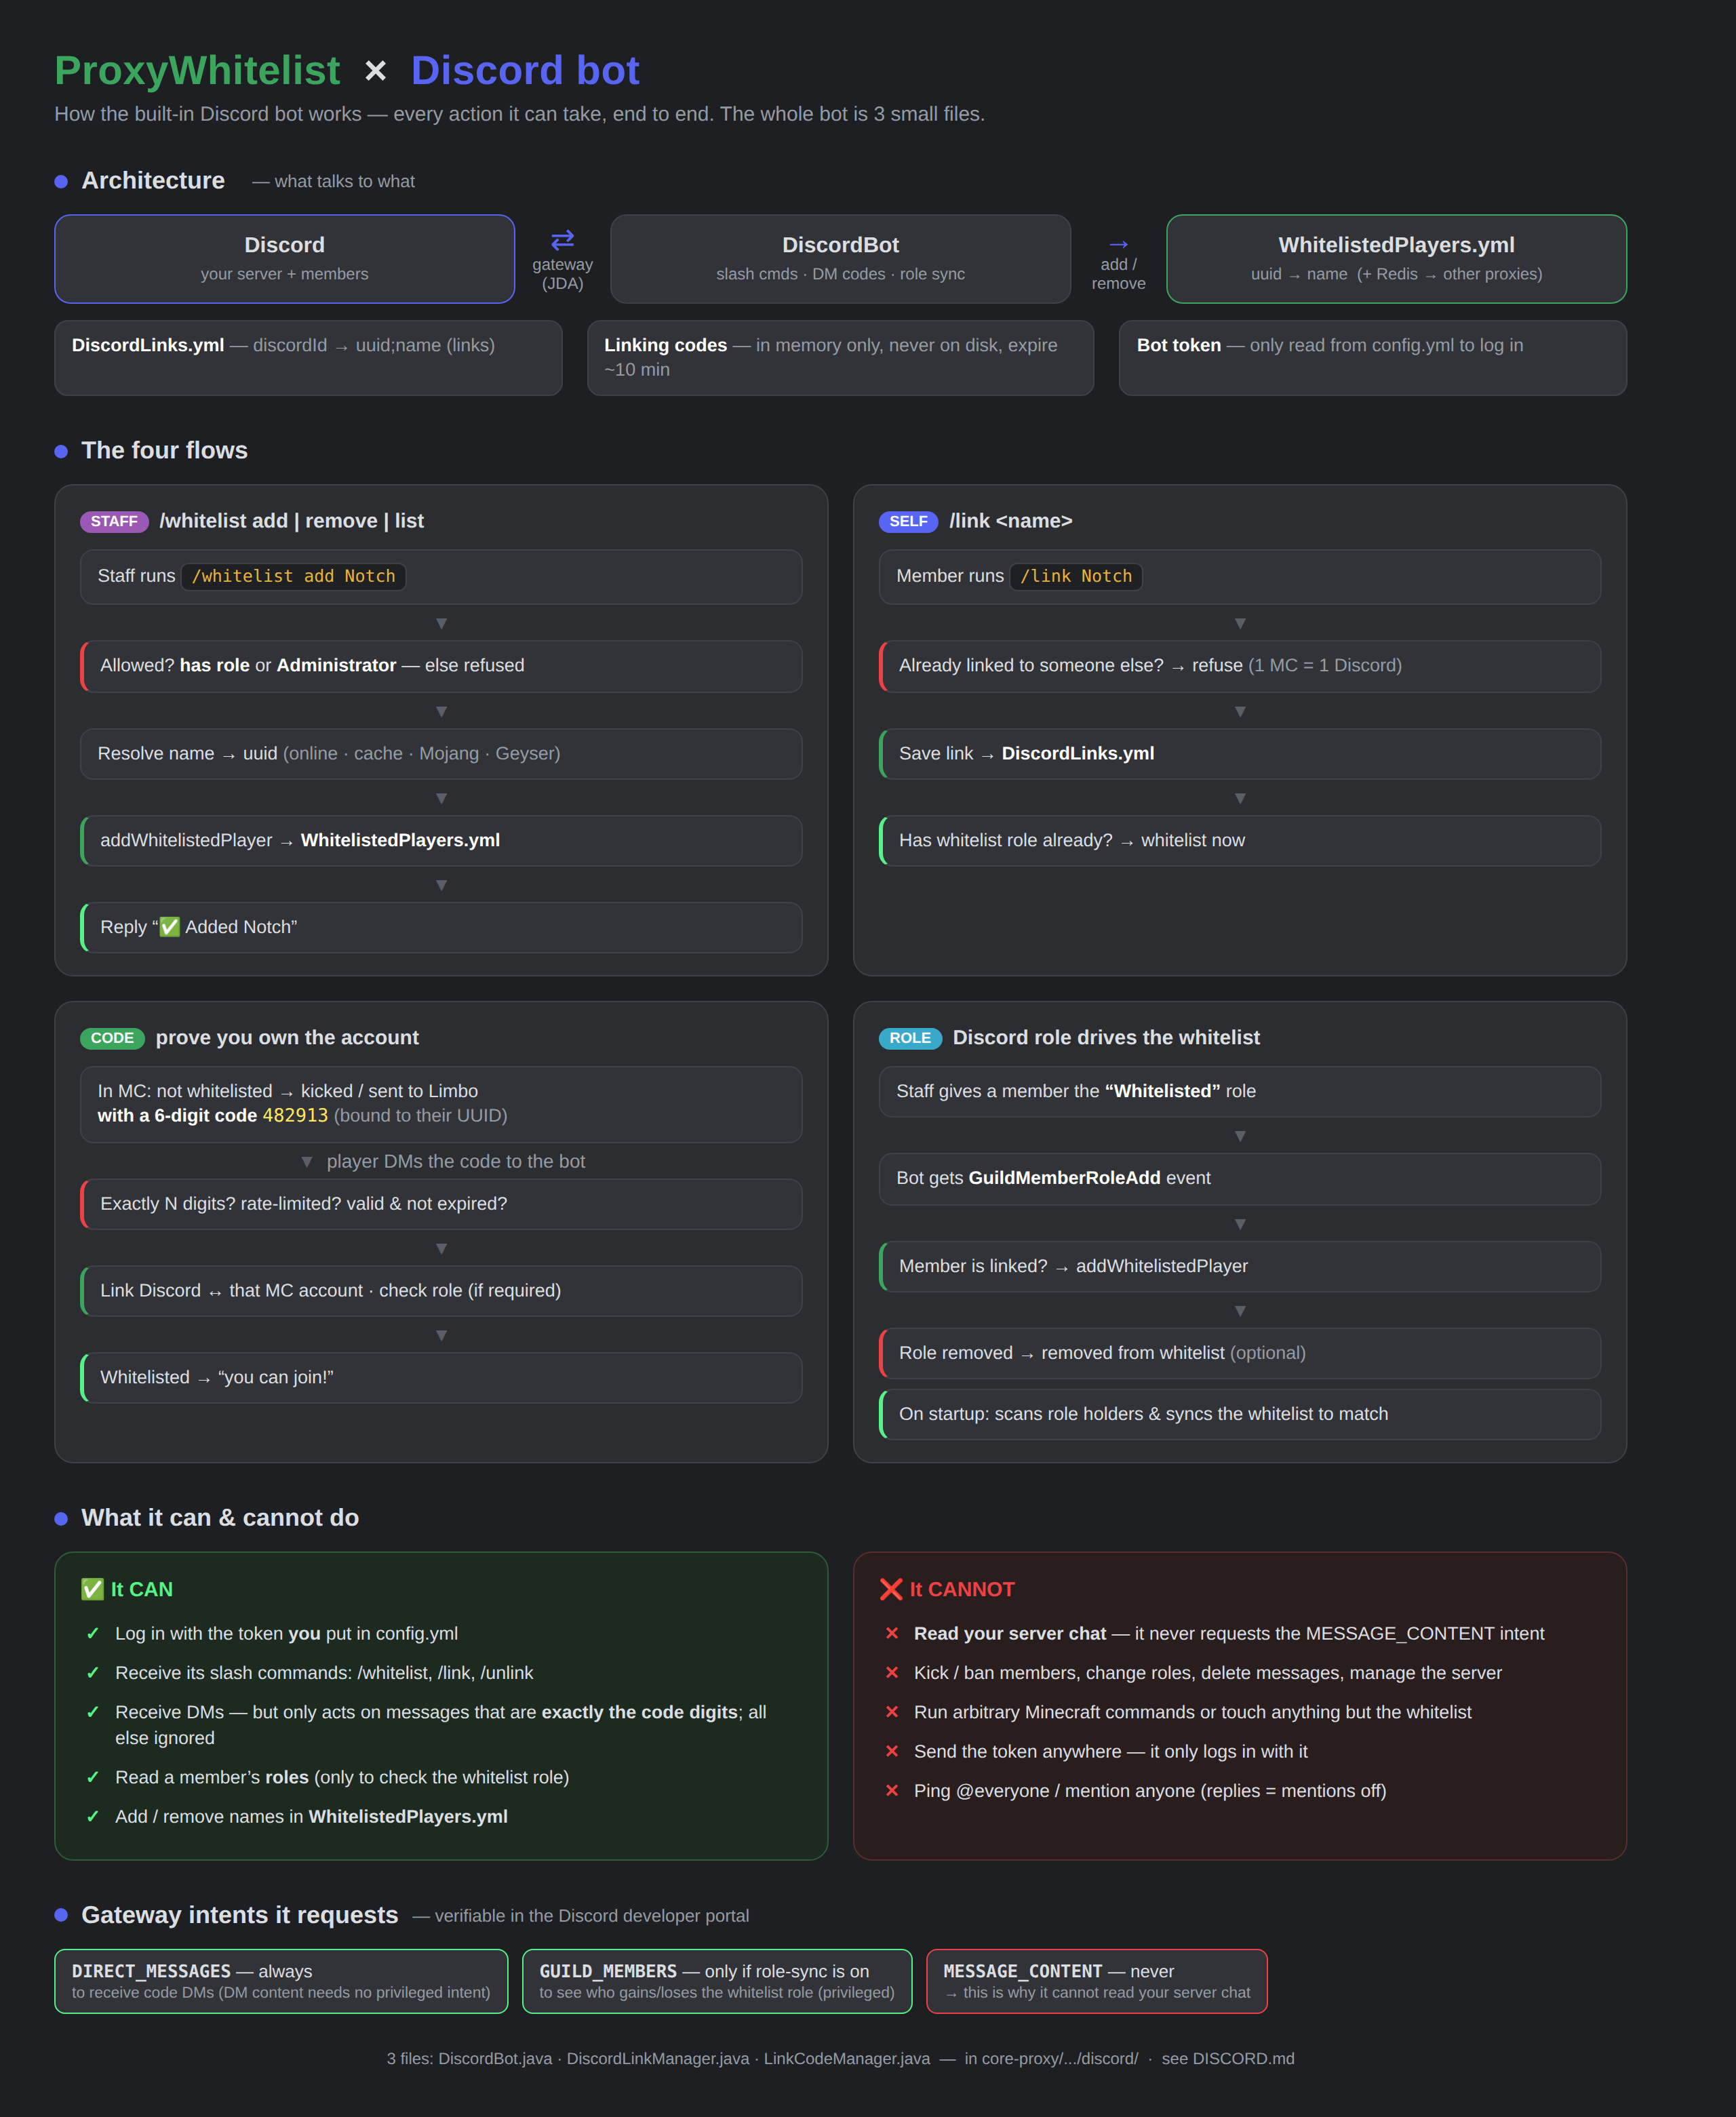
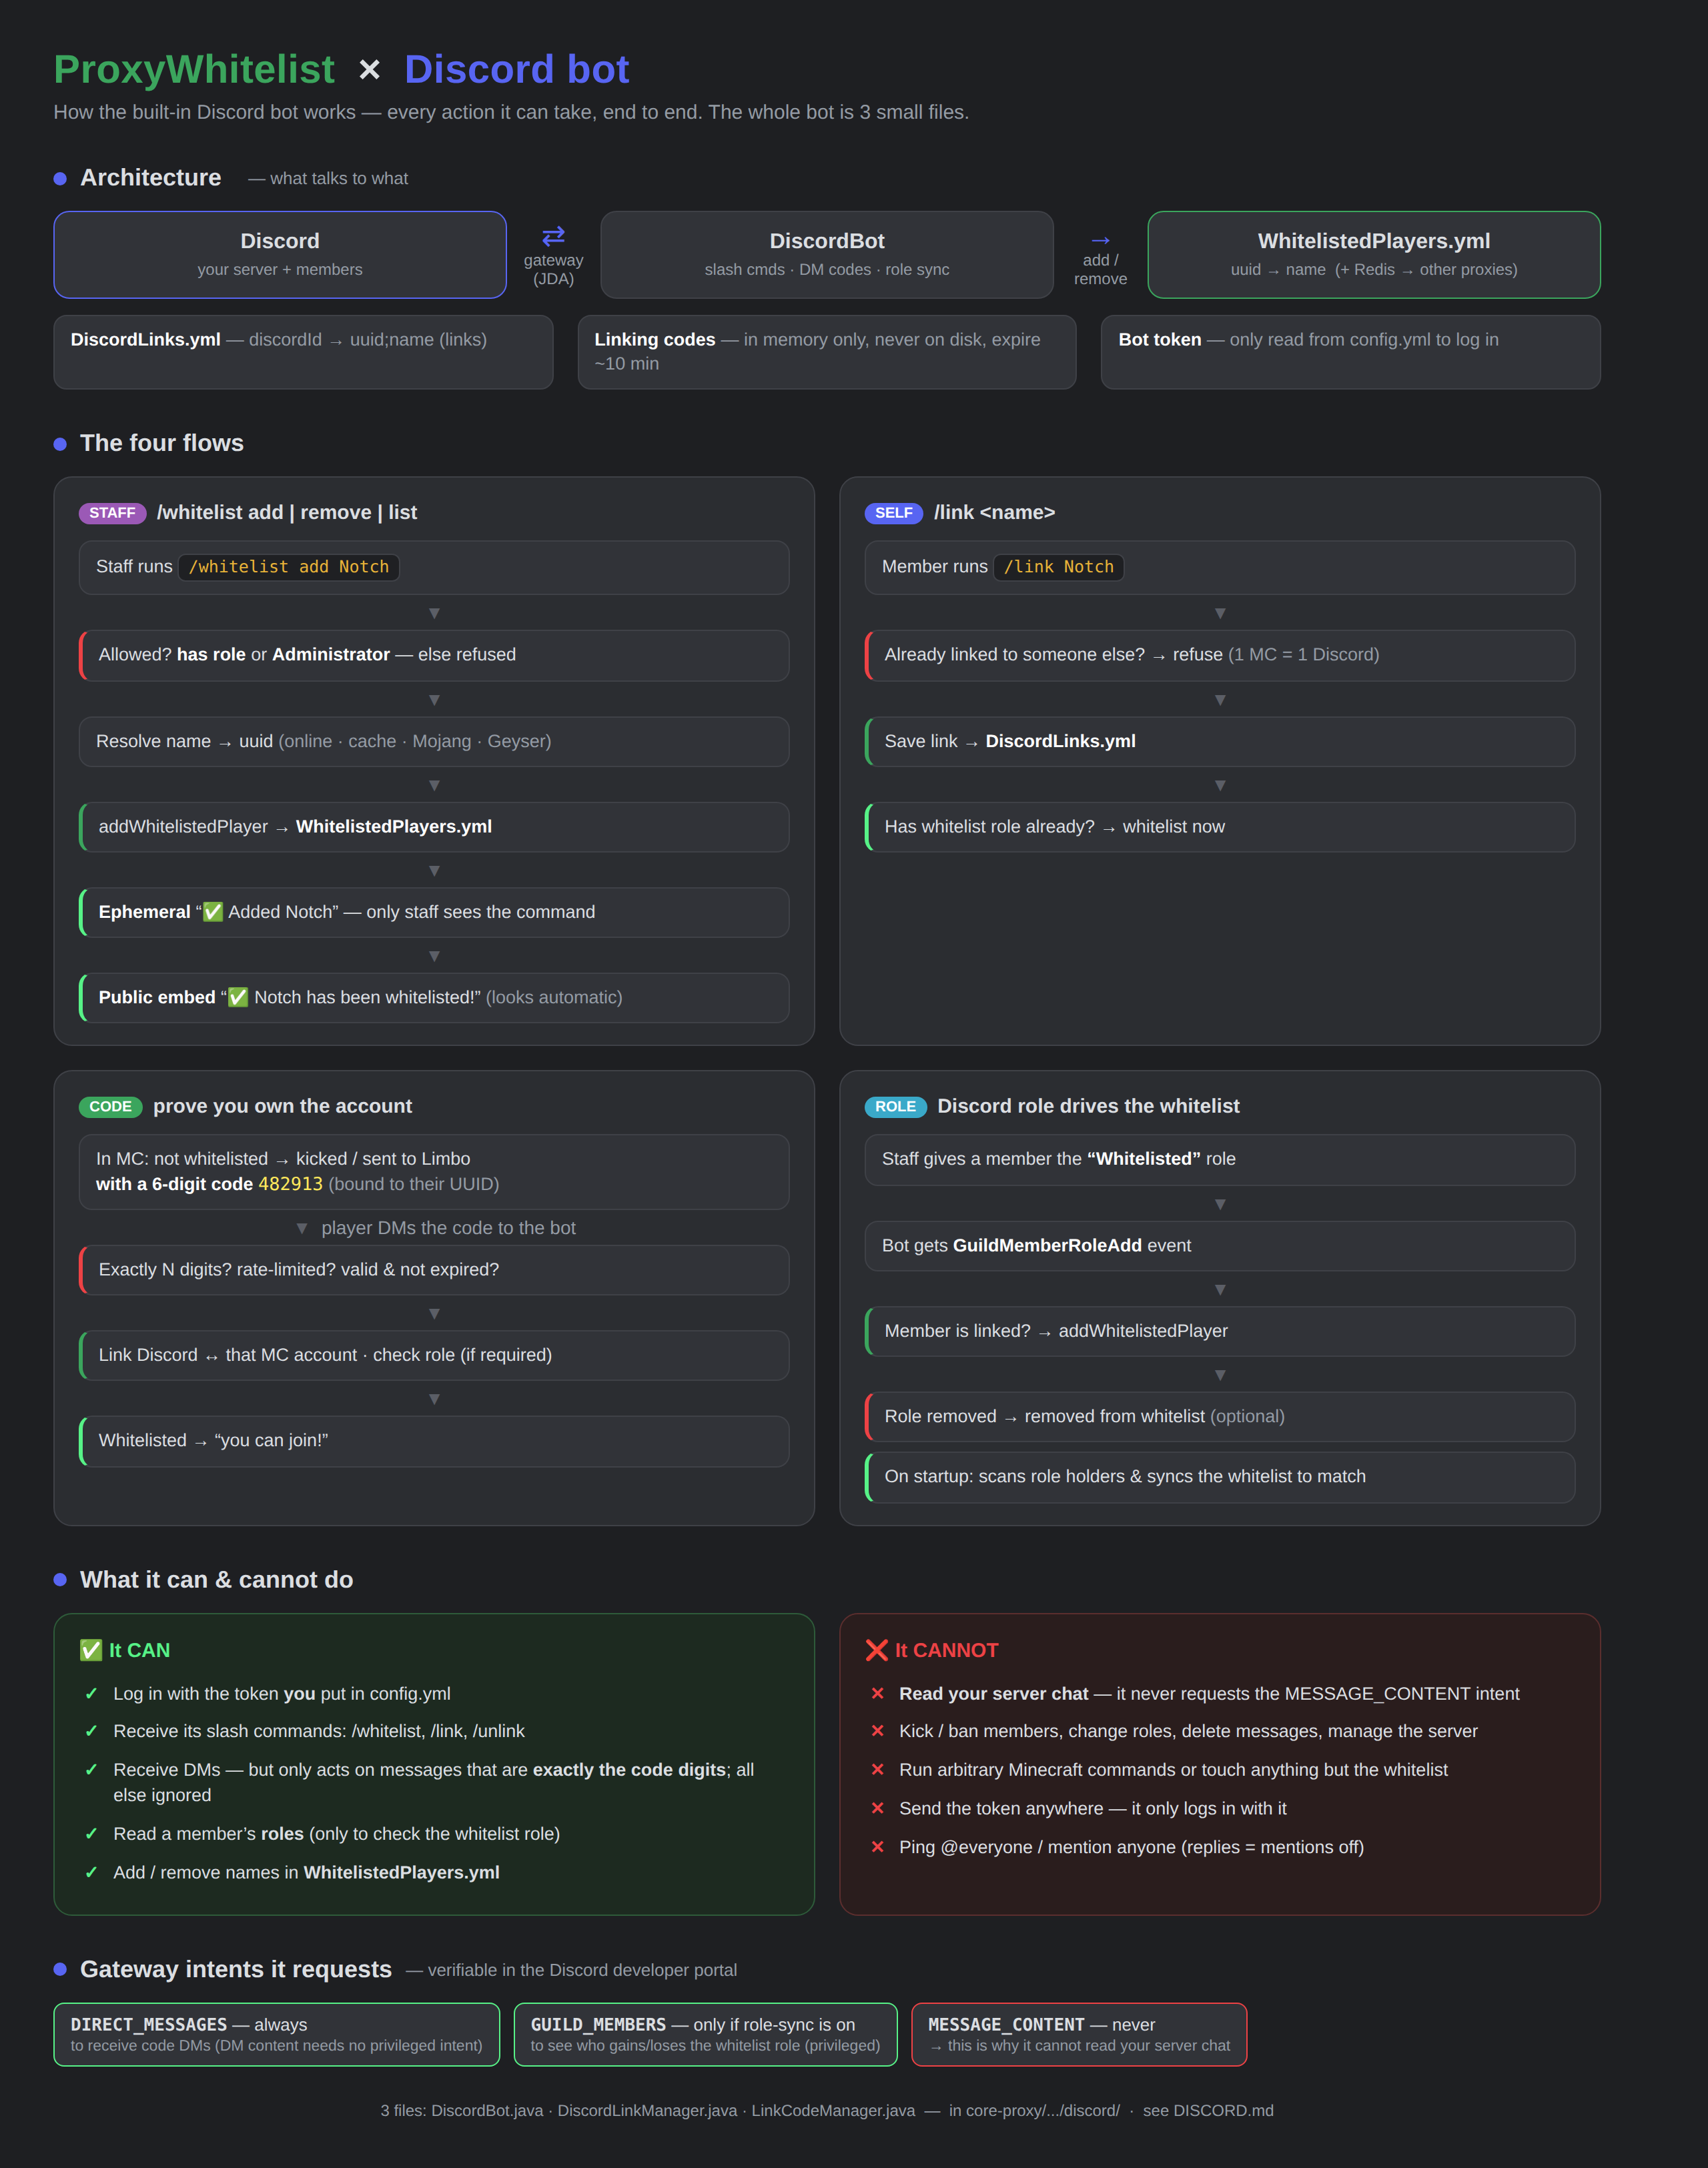
Make /whitelist add ephemeral + post a public "whitelisted" embed
So whitelisting looks automatic: the staff member's slash command and typed
input stay private (ephemeral), and the bot posts a clean public embed
("X has been whitelisted!", with the player's head) as a separate message - no
visible command for others.

- /whitelist add: ephemeral defer + ephemeral confirmation to staff, plus a
  public green embed announcement on success.
- /whitelist remove and list: replies are now ephemeral too (private to staff).
- Updated DISCORD.md and the flow diagram (HTML + re-rendered PNG).

diff --git a/docs/discord-flow.html b/docs/discord-flow.html
@@ -90,7 +90,9 @@
       <div class="down">▼</div>
       <div class="step act">addWhitelistedPlayer → <b>WhitelistedPlayers.yml</b></div>
       <div class="down">▼</div>
-      <div class="step ok">Reply “✅ Added Notch”</div>
+      <div class="step ok"><b>Ephemeral</b> “✅ Added Notch” — only staff sees the command</div>
+      <div class="down">▼</div>
+      <div class="step ok"><b>Public embed</b> “✅ Notch has been whitelisted!” <span class="muted">(looks automatic)</span></div>
     </div>
 
     <div class="card">

diff --git a/core-proxy/src/main/java/eu/kennytv/maintenance/core/proxy/discord/DiscordBot.java b/core-proxy/src/main/java/eu/kennytv/maintenance/core/proxy/discord/DiscordBot.java
@@ -21,6 +21,8 @@ import eu.kennytv.maintenance.core.proxy.MaintenanceProxyPlugin;
 import eu.kennytv.maintenance.core.proxy.SettingsProxy;
 import eu.kennytv.maintenance.core.proxy.util.ProfileLookup;
 import eu.kennytv.maintenance.core.util.SenderInfo;
+import java.net.URLEncoder;
+import java.nio.charset.StandardCharsets;
 import java.util.Collections;
 import java.util.EnumSet;
 import java.util.List;
@@ -28,12 +30,14 @@ import java.util.Map;
 import java.util.UUID;
 import java.util.concurrent.CompletableFuture;
 import java.util.logging.Level;
+import net.dv8tion.jda.api.EmbedBuilder;
 import net.dv8tion.jda.api.JDA;
 import net.dv8tion.jda.api.JDABuilder;
 import net.dv8tion.jda.api.Permission;
 import net.dv8tion.jda.api.entities.Activity;
 import net.dv8tion.jda.api.entities.Guild;
 import net.dv8tion.jda.api.entities.Member;
+import net.dv8tion.jda.api.entities.MessageEmbed;
 import net.dv8tion.jda.api.entities.Role;
 import net.dv8tion.jda.api.entities.channel.ChannelType;
 import net.dv8tion.jda.api.events.guild.member.GuildMemberRoleAddEvent;
@@ -224,7 +228,8 @@ public final class DiscordBot extends ListenerAdapter {
         }
 
         final String input = option.getAsString();
-        event.deferReply().queue();
+        // Ephemeral: the staff member's command and typed input stay private to them.
+        event.deferReply(true).queue();
         lookup(input).whenComplete((selected, ex) -> {
             if (ex != null || selected == null) {
                 event.getHook().sendMessage("❌ Could not find a player named `" + input + "`.").queue();
@@ -232,9 +237,14 @@ public final class DiscordBot extends ListenerAdapter {
             }
 
             final boolean added = settings.addWhitelistedPlayer(selected.uuid(), selected.name());
-            event.getHook().sendMessage(added
-                    ? "✅ Added `" + selected.name() + "` to the whitelist."
-                    : "ℹ️ `" + selected.name() + "` is already whitelisted.").queue();
+            if (added) {
+                // Quiet confirmation only the staff member sees...
+                event.getHook().sendMessage("✅ Added `" + selected.name() + "` to the whitelist.").queue();
+                // ...and a clean public embed so it looks automatic - no visible command, just the result.
+                event.getChannel().sendMessageEmbeds(whitelistedEmbed(selected.name())).queue();
+            } else {
+                event.getHook().sendMessage("ℹ️ `" + selected.name() + "` is already whitelisted.").queue();
+            }
         });
     }
 
@@ -252,7 +262,7 @@ public final class DiscordBot extends ListenerAdapter {
                 : settings.removeWhitelistedPlayer(input);
 
         if (removed) {
-            event.reply("✅ Removed `" + input + "` from the whitelist.").queue();
+            event.reply("✅ Removed `" + input + "` from the whitelist.").setEphemeral(true).queue();
         } else {
             event.reply("❌ `" + input + "` is not on the whitelist.").setEphemeral(true).queue();
         }
@@ -476,6 +486,18 @@ public final class DiscordBot extends ListenerAdapter {
     private String sanitizeName(final String name) {
         // Strip anything that could break out of Discord markdown or inject mentions/backticks.
         return name.replaceAll("[^A-Za-z0-9_ .]", "");
+    }
+
+    /**
+     * The public "X has been whitelisted" announcement embed. Kept clean so the action looks automatic.
+     */
+    private MessageEmbed whitelistedEmbed(final String name) {
+        final String safe = sanitizeName(name);
+        return new EmbedBuilder()
+                .setColor(0x57F287)
+                .setDescription("✅ **" + safe + "** has been whitelisted!")
+                .setThumbnail("https://mc-heads.net/avatar/" + URLEncoder.encode(name, StandardCharsets.UTF_8) + "/100")
+                .build();
     }
 
     // --- Helpers ---

diff --git a/DISCORD.md b/DISCORD.md
@@ -80,9 +80,11 @@ Staff: /whitelist add Notch
    │
    ├─ SettingsProxy.addWhitelistedPlayer(uuid, name)  →  WhitelistedPlayers.yml  (+ Redis if enabled)
    │
-   └─ reply "✅ Added Notch"
+   ├─ ephemeral "✅ Added Notch"   (only the staff member sees the command + this reply)
+   └─ public embed "✅ Notch has been whitelisted!"   (looks automatic - no visible command)
 ```
-`/whitelist remove` and `/whitelist list` work the same way (gated by the same permission).
+`/whitelist remove` and `/whitelist list` reply **ephemerally** (private to the staff member) and are gated by
+the same permission. Only `add` posts the public "whitelisted" embed.
 
 ### 3b. Self-service link — `/link <name>`
 ```